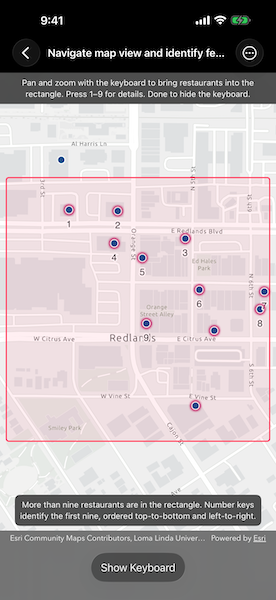
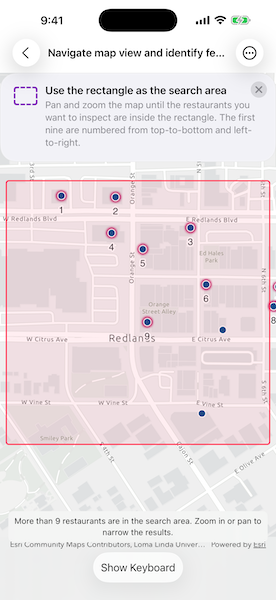
update

diff --git a/Shared/Samples/Navigate map view and identify features with keyboard/NavigateMapAndIdentifyFeaturesWithKeyboardView.swift b/Shared/Samples/Navigate map view and identify features with keyboard/NavigateMapAndIdentifyFeaturesWithKeyboardView.swift
@@ -154,8 +154,8 @@ struct NavigateMapAndIdentifyFeaturesWithKeyboardView: View {
                                     .background(.regularMaterial)
                                     .clipShape(.rect(cornerRadius: 8))
                             }
+                            TipView(KeyboardInputTip())
                             if isKeyboardInputActive {
-                                TipView(KeyboardInputTip())
                                 makeKeyboardInputBar()
                             }
                         }
@@ -257,6 +257,23 @@ struct NavigateMapAndIdentifyFeaturesWithKeyboardView: View {
         statusMessage = ""
         calloutFeature = feature
         calloutPlacement = .geoElement(feature, tapLocation: anchor)
+        
+        // Announce the feature details for accessibility
+        let featureTitle = model.name(for: feature, fallback: "Restaurant") ?? "Restaurant"
+        let wgs84Point = GeometryEngine.project(anchor, into: .wgs84)
+        let latLong: String
+        if let wgs84Point {
+            let formattedLat = wgs84Point.y.formatted(.number.precision(.fractionLength(6)))
+            let formattedLon = wgs84Point.x.formatted(.number.precision(.fractionLength(6)))
+            latLong = "Latitude \(formattedLat), Longitude \(formattedLon)"
+        } else {
+            latLong = "Location unavailable"
+        }
+        
+        var highPriority = AttributedString("\(featureTitle), Location, \(latLong)")
+        highPriority.accessibilitySpeechAnnouncementPriority = .high
+        AccessibilityNotification.Announcement(highPriority).post()
+        
         if isKeyboardInputActive {
             keyboardInputHasFocus = true
         } else {

diff --git a/Shared/Samples/Navigate map view and identify features with keyboard/NavigateMapAndIdentifyFeaturesWithKeyboardView.Model.swift b/Shared/Samples/Navigate map view and identify features with keyboard/NavigateMapAndIdentifyFeaturesWithKeyboardView.Model.swift
@@ -61,7 +61,7 @@ extension NavigateMapAndIdentifyFeaturesWithKeyboardView {
             let map = Map(basemapStyle: .arcGISLightGray)
             map.initialViewpoint = Viewpoint(
                 center: Point(x: -117.1825, y: 34.0556, spatialReference: .wgs84),
-                scale: 5_000
+                scale: 4_500
             )
             map.addOperationalLayer(restaurantsLayer)
             self.map = map
